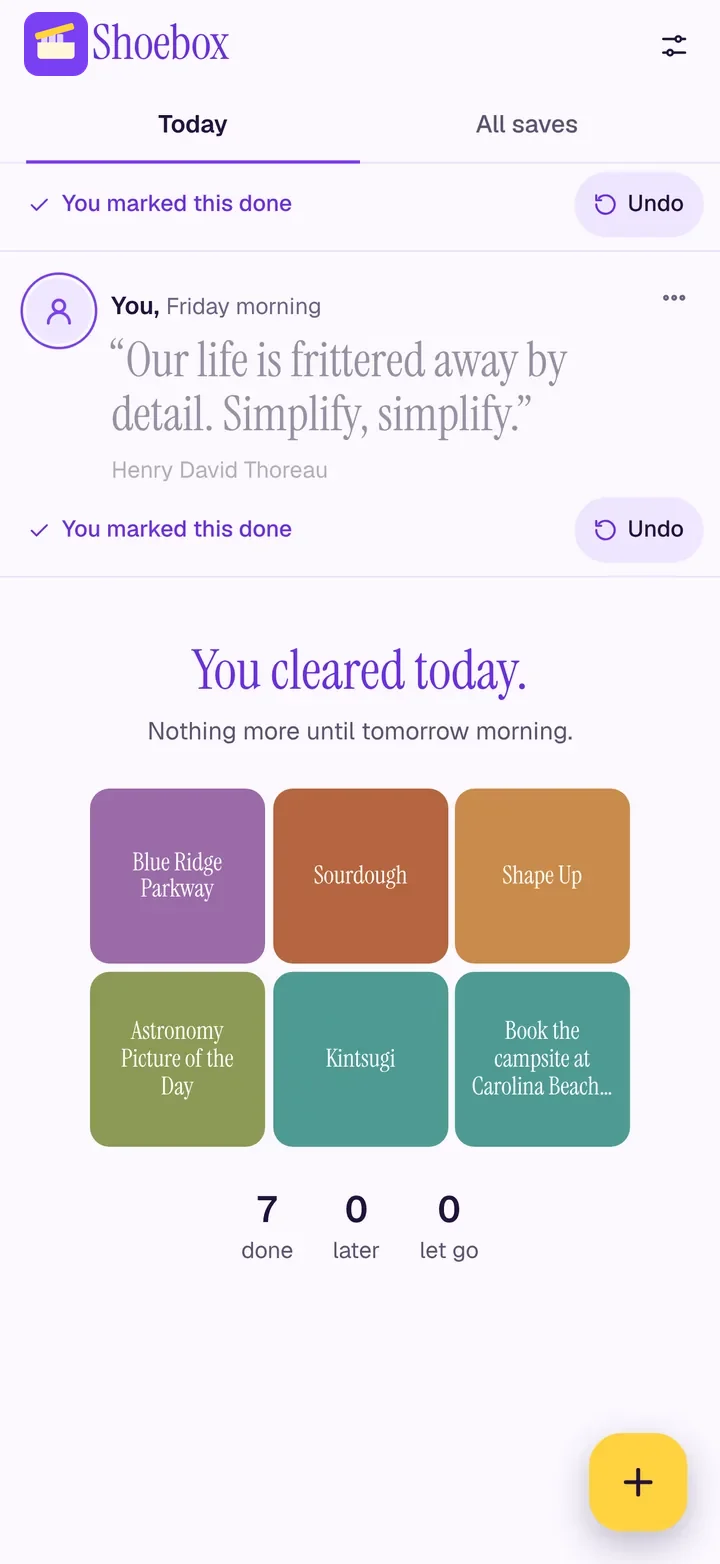
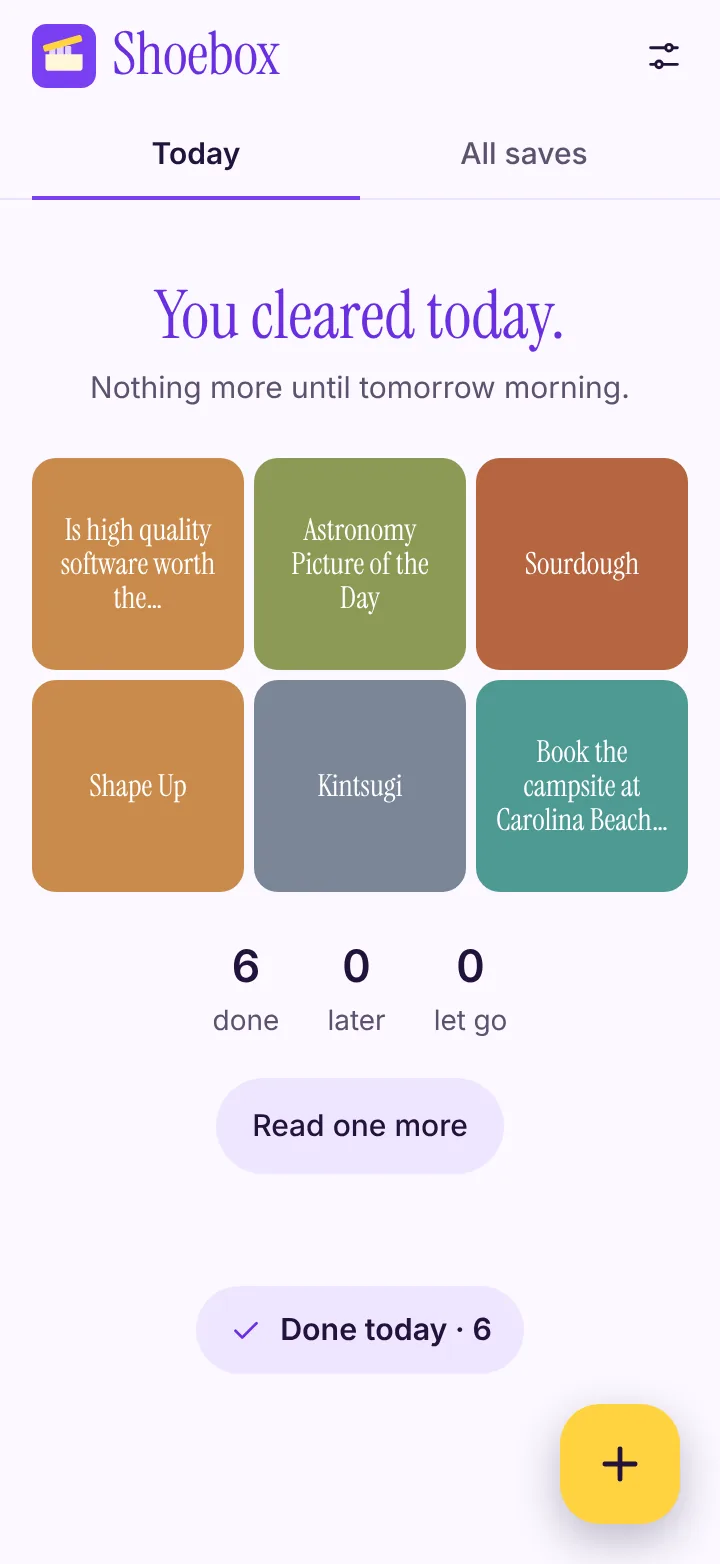
Site pictures from the public build: no weather, no calendar
Recaptured today, day, all, school and cleared from the public feed with
saves that carry their reasons, rebuilt the share card (og.png), and removed the
unused topics.webp. The cleared picture says six, which is the size of a day.

Claude-Session: https://claude.ai/code/session_01JnUP81EhEsDipZk27xgniG

diff --git a/welcome.html b/welcome.html
@@ -97,7 +97,7 @@
           <figcaption>A few a day<span>Picked from what you kept, and the same few all day.</span></figcaption>
         </figure>
         <figure>
-          <div class="phone"><img src="site/cleared.webp" alt="You cleared today: seven things done" width="720" height="1564" loading="lazy"></div>
+          <div class="phone"><img src="site/cleared.webp" alt="You cleared today: six things done" width="720" height="1564" loading="lazy"></div>
           <figcaption>Clear today<span>Nothing more until tomorrow morning.</span></figcaption>
         </figure>
       </div>
